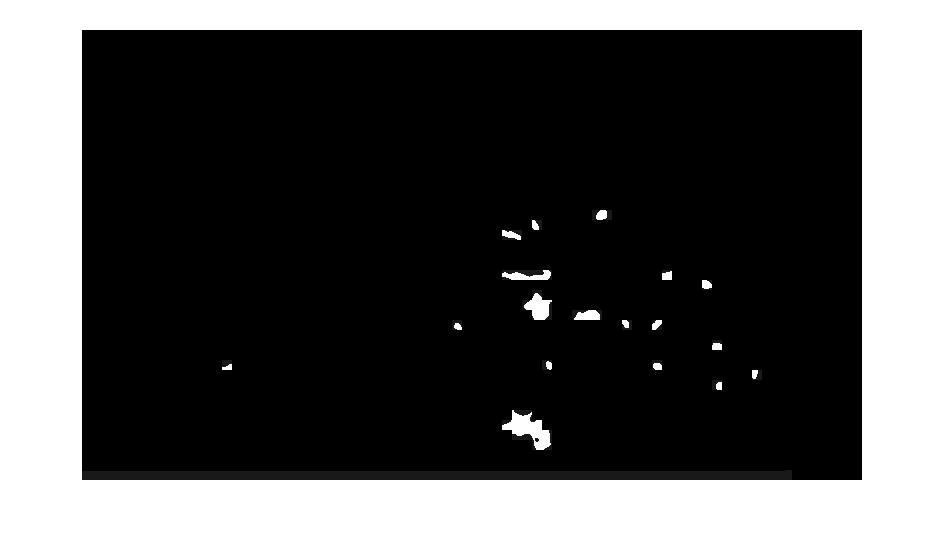
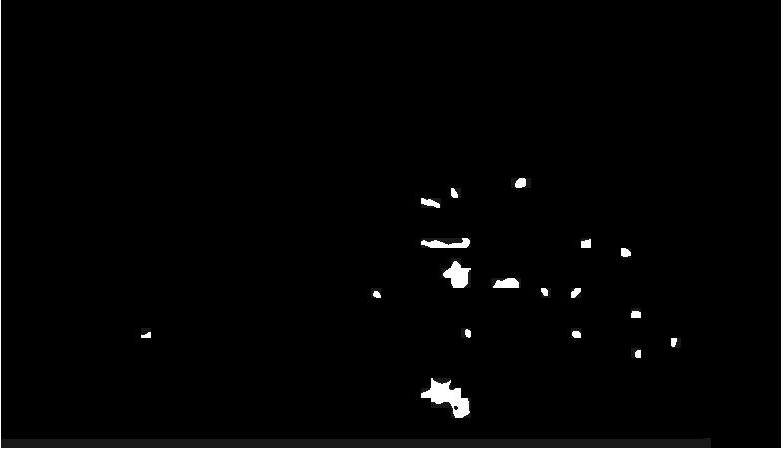
Agregué subsección de lógica difusa en Metodología y en Resultados; agregué algunas imágenes más.

diff --git a/Capitulos/resultados.tex b/Capitulos/resultados.tex
@@ -33,29 +33,35 @@ Partiendo de las características del terreno a relevar (su extensión) y de la 
 \begin{figure}[h!]
     \includegraphics[width=\textwidth]{Imagenes/grafico bloque 1-II.png}
      \hfill
-     \caption{Gráfico comparativo de tiempo total de relevamiento con distintas plataformas versus superficie relevada}
+     \caption{Gráfico comparativo de tiempo total de relevamiento, incluyendo fase de despegue, desplazamiento y retorno a base, con distintas plataformas versus superficie relevada}
     \label{grafico_comparativo-II}
 \end{figure}
 
-En la figura \ref{grafico_comparativo} se muestra un gráfico en el que se expone cómo varía el costo de relevamiento expresado en dólares estadounidenses en relación a la área relevada, expresada en hectáreas, según la plataforma usada, VANT, aeronaves tripuladas o satélites. Como se observa, en el caso de los VANT es claramente inferior el costo cuando se trata de superficies menores a mil hectáreas. A partir de ese valor el costo de relevamiento se asemeja al de la obtención de imágenes satelitales. Es marcada la incidencia que tiene en el caso de áreas relativamente pequeñas, de cien hectáreas o menos, lo que puede definirse como costo fijo tanto para imágenes satelitales cuya adquisición está supeditada a un área no menor a 25 km\textsuperscript{2} (2.500 ha). Con este gráfico resulta evidente la conveniencia del uso de VANT en términos económicos para relevar las pequeñas reservas públicas y privadas en la provincia de Misiones. De manera similar, en el gráfico \ref{grafico_comparativo-II} se muestra cómo varía el tiempo necesario para el relevamiento según la superficie y la plataforma usada. Según se aprecia, para áreas de superficie pequeña, de cien hectáreas o menos, el tiempo que lleva hacer el mapeo es de dos minutos o menos, con lo que el tiempo de relevamiento es insignificante en comparación al tiempo que podría definirse como logístico, desde la puesta en marcha, despegue y traslado y posterior retorno, que según muestra la tabla \ref{tab:avion}, se aproxima a la media hora. Ese tiempo es independiente de la superficie relevada, pero incide en el costo total, ya que es facturado en un servicio aéreo. 
+En la figura \ref{grafico_comparativo} se muestra un gráfico en el que se expone cómo varía el costo de relevamiento expresado en dólares estadounidenses en relación a la área relevada, expresada en hectáreas, según la plataforma usada, VANT, aeronaves tripuladas o satélites. Como se observa, en el caso de los VANT es claramente inferior el costo cuando se trata de superficies menores a mil hectáreas. A partir de ese valor el costo de relevamiento se asemeja al de la obtención de imágenes satelitales. Es marcada la incidencia que tiene en el caso de áreas relativamente pequeñas, de 100 hectáreas o menos, lo que puede definirse como costo fijo tanto para imágenes satelitales cuya adquisición está supeditada a un área no menor a 25 km\textsuperscript{2} (2.500 ha). De acuerdo con la figura \ref{grafico_comparativo} resulta evidente la conveniencia del uso de VANT en términos económicos para relevar las pequeñas reservas públicas y privadas en la provincia de Misiones. \\
+De manera similar, en la figura \ref{grafico_comparativo-II} se muestra cómo varía el tiempo necesario para el relevamiento según la superficie y la plataforma usada. Según se aprecia, para áreas de pequeña extensión, de cien hectáreas o menos, el tiempo que demanda hacer el relevamiento con aeronave tripulada es de dos minutos o menos, con lo que el tiempo de relevamiento es insignificante en comparación al tiempo que podría definirse como logístico, desde la puesta en marcha, despegue y traslado y posterior retorno, que según muestra la tabla \ref{tab:avion}, se aproxima a la media hora. Ese tiempo es independiente de la superficie relevada, pero incide en el costo total, ya que es facturado en un servicio aéreo. Por otro lado, con el relevamiento con VANT se observa que para extensiones menores a 800 ha, es conveniente en términos de tiempo demandado en el relevamiento, incluso considerando el tiempo de reabastecimiento de la batería.
 
-\section{ Propuesta de Herramientas de Bajo Costo (Económico y Computacional) para el relevamiento del bosque atlántico}
+\section{Resultados de los algoritmos de procesamiento de imágenes}
 %\subsection{RESULTADOS Relación de iluminación natural con histogramas de color}
 %Con el objeto de evaluar la correspondiente afectación en el histograma de las imágenes capturadas respecto a las condiciones de iluminación natural, se hicieron varias capturas en distintos horarios durante varios días desde una posición fija a un determinado objeto (un árbol de palta) y se midió la iluminancia usando un luxómetro.
 %\color{cyan} %color de texto con 70-80 % o más de avance
-\subsection{RESULTADOS HOMOMÓRFICO}
+\subsection{Análisis de regiones sombreadas mediante procesamiento homomórfico}
 \input{Capitulos/tablahomomorfico}
-Los resultados de las pruebas usando el procesamiento homomórfico detallado en \ref{} se exponen en la Tabla \ref{tab:homomorfico}. Allí se visualiza para un total de once diferentes imágenes analizadas la cantidad de sombras detectadas, y se comparan los resultados de conteo automático con distintos tamaños de ventana, con el método de búsqueda de forma manual. En las tres últimas filas de la tabla se muestran el error medio entre el conteo automático y el manual, la variancia y el desvío estándar. Nótese el cambio de signo para el error medio entre los tamaños de ventana de 25 y de 20 píxeles, indicando que la selección de un tamaño de ventana menor resultará en una mayor cantidad de sombras detectadas que la que se obtiene por conteo manual. En cambio un tamaño de ventana mayor podría obviar varias sombras que serían tenidas en cuenta para el conteo manual. De acuerdo con la resolución de las imágenes de prueba, el tamaño de ventana cuadrada de 20 píxeles por lado se correspondería con un área aproximada de 100 metros cuadrados, que bien podría corresponder a una copa de árbol de un diámetro aproximado de 10 m.
-A los efectos de demostrar el grado de certeza del algoritmo, se comparó con la detección manual, variando el tamaño de la ventana de enmascaramiento. Se comprobó que eligiendo un tamaño de ventana de enmascaramiento igual a 20 por 20 píxeles se obtenía un acercamiento al criterio de selección manual.
-En el proceso de binarización, se definió como umbral que correspondía a un valor de intensidad por encima del cual se trataba de sombras. En este caso el valor de intensidad fue de 0,75 en valores de intensidad de píxeles normalizados.
-Para la selección de sombras binarizadas se recorrió la matriz de la imagen con una ventana de inspección que abarcaba 25 píxeles por lado, de modo que se evalúa un conjunto de 625 píxeles. Se estableció un umbral de 0,45 para clasificar las sombras, de modo que los recintos de píxeles blancos que superaban ese umbral eran catalogados como sombras de árboles grandes.
-A los efectos de mostrar el funcionamiento del método de búsqueda y conteo de sombras, se exponen las figuras \ref{sombratorogris}, \ref{mascaraST} y \ref{seleccionadaST} en las que se visualizan la imagen satelital en escala de grises de una porción de la reserva privada Sombra de Toro, ubicada en el norte de la provincia de Misiones, la imagen binarizada luego del filtrado homomórfico y las sombras seleccionadas, respectivamente.
+Con el objetivo de lograr un algoritmo que analice las imágenes RGB y pueda detectar estructura en la selva, tales como ejemplares altos y depresiones en el dosel de selva, se propuso el análisis de las imágenes para detectar sombras que se proyectan en el dosel. En esta sección se presentan los resultados del algoritmo basado en el análisis homomórfico cuyo detalle se desarrolló en la sección \ref{homomorfico} aplicados a una variedad de imágenes de la selva seleccionados. Las imágenes pueden verse en el anexo \ref{anexo_homo}.\\ Los resultados, que se exponen en la tabla \ref{tab:resultados_homomorfico} se analizan como función del parámetro tamaño de ventana de exploración.
+Allí se visualiza para un total de once diferentes imágenes analizadas la cantidad de sombras detectadas, y se comparan los resultados de conteo automático con distintos tamaños de ventana, con el método de búsqueda de forma manual. \\
+A los efectos de demostrar el grado de certeza del algoritmo, se comparó con la detección manual, variando el tamaño de la ventana de enmascaramiento. Se comprobó que eligiendo un tamaño de ventana de enmascaramiento igual a 20 por 20 píxeles se obtenía un acercamiento al criterio de selección manual.\\
+Nótese el cambio de signo para el error medio entre los tamaños de ventana de 25 y de 20 píxeles, indicando que la selección de un tamaño de ventana menor resultará en una mayor cantidad de sombras detectadas que la que se obtiene por conteo manual. En cambio un tamaño de ventana mayor podría obviar varias sombras que serían tenidas en cuenta para el conteo manual. De acuerdo con la resolución de las imágenes de prueba, el tamaño de ventana cuadrada de 20 píxeles por lado se correspondería con un área aproximada de 100 metros cuadrados, que bien podría corresponder a una copa de árbol de un diámetro aproximado de 10 m.\\
+El siguiente parámetro que se analizó es el umbral para la binarización (ver figura \ref{flowchart_homomorfico}), definiendo un valor que correspondía a una intensidad de cada píxel por encima del cual se consideraba como sombra. En este caso el valor de intensidad fue de 0,75 en valores de intensidad de píxeles normalizados, de acuerdo con varias pruebas realizadas en las imágenes analizadas.
+Para la selección de sombras binarizadas se recorrió la matriz de la imagen con una ventana de inspección que abarcaba 25 píxeles por lado, de modo que se evalúa un conjunto de 625 píxeles. Luego de varias pruebas con diferentes imágenes, se estableció un umbral de 0,45 (45\%) para clasificar las sombras, de modo que los recintos de píxeles blancos que superaban ese umbral eran catalogados como sombras de árboles grandes.\\
+A los efectos de mostrar el funcionamiento del algoritmo de búsqueda y conteo de sombras, se expone la figura \ref{sombratorogris}, en la que se visualiza la imagen satelital en escala de grises de una porción de la reserva privada Sombra de Toro, la imagen binarizada luego del filtrado homomórfico en la figura \ref{mascaraST} y las sombras seleccionadas con el algoritmo en la figura \ref{seleccionadaST}.
 
 \input{Capitulos/img_resultados_homomorfico}
-
-De acuerdo con la resolución espacial de las imágenes analizadas, el tamaño de ventana de 20 píxeles se corresponde con un área de aproximadamente cien metros cuadrados.
+\subsubsection{Resultados de procesamiento homomórfico y selección automática mediante sistema de inferencia de lógica difusa}
+En las figuras \ref{} se presentan los resultados de la selección automática de sombras obtenida por el algoritmo propuesto en \ref{Metodología}.
+\input{Capitulos/img_resultados_homo_VANT}
+\subsubsection{Discusión de resultados del procesamiento homomórfico}
+Según lo observado en los resultados, especialmente en las figuras \ref{Cañadon_homo} y \ref{}, es evidente que el algoritmo requiere de optimización y de concederle mayor robustez ante variaciones en, por ejemplo, la resolución espacial. Los parámetros del algoritmo han sido ajustados para las características de las imágenes satelitales utilizadas. En cuanto se aplicaba el algoritmo con imágenes obtenidas por VANT, los resultados obtenidos diferían de manera considerable, por lo que el algoritmo requería de un ajuste mayor de los parámetros para esas condiciones. De este modo, la automatización de la selección de sombras se ve limitada por las condiciones de las imágenes a ser analizadas.
 %\color{cyan} %color de texto con 70-80 % o más de avance
-\subsection{RESULTADOS Replicación del paper de Wagner}
+\subsection{Análisis para conteo de copas de árboles según procesamiento morfológico (Wagner)}
 En esta subsección se muestran resultados de un análisis de desempeño de un algoritmo de procesamiento morfológico de imágenes satelitales de selva según la secuencia presentada en la subsección \ref{Morfo}, aplicado para establecer la delineación y conteo de copas individuales en el dosel selvático. Para un conjunto de parámetros del algoritmo se establecieron diferentes valores de los mismos para observar y analizar la influencia en los resultados obtenidos.
 Con base en el trabajo realizado por Wagner et al. \cite{hubert_wagner_individual_2018}, se llevó a cabo un análisis de desempeño del algoritmo de procesamiento morfológico de imágenes mediante la técnica de búsqueda por grilla, evaluando diferentes valores de parámetros como ser tamaño de ventana, percentil para selección de objetos oscuros, tamaño de objetos para discriminar huecos en copa. En la figura \ref{Rollingball} se muestran los resultados del análisis para diferentes tamaños de ventana en  píxeles, que corresponde a la etapa 4. En la figura \ref{segundaoscuros} se visualizan los resultados para distintos valores de percentil en la etapa de segunda selección de objetos oscuros, correspondiente a la etapa 6. En la figura \ref{pequenoshuecos} se observan los resultados del procesamiento para hallar pequeños huecos en grandes copas, usando distintos valores de percentil, correspondiente a la etapa 7. 
 

diff --git a/Capitulos/metodologia.tex b/Capitulos/metodologia.tex
@@ -167,7 +167,8 @@ La ecuación que representa al filtro es \ref{filtro homomorfico}
 
 donde $D_0$ es la frecuencia de corte, $c$ controla la forma y pendiente del filtro en la región de transición entre $\gamma_L$ y $\gamma_H$. $D(u,v)$ es la distancia al origen del plano de frecuencias.
 
-Las imágenes a ser analizadas son imágenes satelitales obtenidas desde el sitio web Bing \color{red}\textbf{(poner en referencia de la dirección web del maps)}\color{black}. Se seleccionaron imágenes de diferentes sitios de la Provincia de Misiones, correspondientes a selvas en parques y reservas, en los que se supone mayor presencia de especies de árboles de interés para el presente trabajo. 
+Las imágenes a ser analizadas son imágenes satelitales obtenidas desde el sitio web Bing \color{red}\textbf{(poner en referencia de la dirección web del maps)}\color{black}. \\ % Paranay -26.701277, -54.759434
+Se seleccionaron imágenes de diferentes sitios de la Provincia de Misiones, correspondientes a selvas en parques y reservas, en los que se supone mayor presencia de especies de árboles de interés para el presente trabajo. 
 En un primer paso se realizó la conversión de la imagen de color rojo, verde y azul (RGB) a la representación matiz, saturación e intensidad (HSI), trabajando sobre la componente de intensidad. La componente de intensidad se obtiene sumando los tres canales rojo, verde y azul y dividiendo por tres (ecuación \ref{RGB-HSI}). 
 %%%%%%%%%%%%%%%%%%%%%%%%%%%%%%%%%%%%%% ECUACIÓN %%%%%%%%%%%%%%%%%%%%%%%%%%%%%%%%%%%%%%%%%%%%%%%%%%%%%%%%%
 \\
@@ -178,10 +179,48 @@ En un primer paso se realizó la conversión de la imagen de color rojo, verde y
 donde $I$ es el valor de intensidad, $R$, $G$ y $B$ son los valores respectivos de las bandas roja, verde y azul.
 %%%%%%%%%%%%%%%%%%%%%%%%%%%%%%%%%%%%%%%%%%%%%%%%%%%%%%%%%%%%%%%%%%%%%%%%%%%%%%%%%%%%%%%%%%%%%%%%%%%%%%%%%  
 En un paso siguiente se aplicó el logaritmo a la componente de intensidad de la imagen y seguidamente se obtuvo la transformada de Fourier de la misma, para poder procesar con el filtro de sombras, expresado en la ecuación \ref{filtro homomorfico}. Se multiplicó la matriz de la imagen por la matriz que representa al filtro y luego, al resultado se le aplicó la transformada inversa de Fourier, la función inversa de logaritmo y la remoción de fase, tomando el módulo del número complejo, todo en orden sucesivo. 
-%Posteriormente se binarizó la imagen filtrada fijando el valor de umbral en 0,75 en una escala en la que el valor 1 es blanco y 0 es negro, de modo que a los píxeles con valor de intensidad menor al umbral se les asignó el valor cero, y a los que superaban el valor umbral se les asignaba el valor 1. La imagen de salida del filtro de sombras constituye así una máscara que presenta a las sombras resaltadas con píxeles de intensidad blancos. 
-Luego se efectuó la selección de las sombras binarizadas mediante técnicas de lógica difusa, en dos etapas. En la primera implementando un inferenciador Sugeno, mediante el cual se discriminaban los píxeles de determinada intensidad , con lo que se descartaron las sombras que no revisten interés para el posterior conteo, es decir aquellas muy pequeñas o muy grandes, estableciendo una ventana de enmascaramiento, que a los efectos prácticos es cuadrada y el criterio de clasificación es de 45\% de píxeles blancos. Una vez completas la binarización y la selección de sombras de interés, se realizó el conteo de las mismas. El diagrama de flujo de la figura \ref{flowchart_homomorfico}  describe las etapas del proceso completo. 
+Posteriormente se binarizó la imagen filtrada fijando un valor de umbral dentro de una escala en la que el valor 1 es blanco y 0 es negro, de modo que a los píxeles con valor de intensidad menor al umbral se les asignó el valor cero, y a los que superaban el valor umbral se les asignaba el valor 1. La imagen de salida del filtro de sombras constituye así una máscara que presenta a las sombras resaltadas con píxeles de intensidad blancos. En la siguiente etapa del algoritmo se implementa una selección de las regiones que corresponden a sombras en la imagen, donde por medio de una ventana cuadrada que recorre todo el ancho y largo de la imagen se evalúan las distintas sombras por su tamaño, descartándose las que son muy pequeñas de acuerdo a un parámetro establecido. Finalmente se obtiene una máscara binaria que contiene las demarcaciones de sombras en la imagen.
 
+\subsubsection{Selección automática de regiones sombreadas usando método de inferencia difusa a partir del filtrado homomórfico}
+Partiendo de la imagen procesada con filtro homomórfico, se efectuó la selección de las sombras binarizadas mediante técnicas de lógica difusa, en dos etapas. En la primera implementando un sistema de inferencia difusa por el método Sugeno, mediante el cual se discriminaban los píxeles de determinada intensidad, que constituía la variable de entrada, estableciendo una salida según dos funciones de membresía trapezoidales, una correspondiente a píxeles "claros" y otra a "oscuros" (ver figura \ref{sug1}). La segunda etapa de inferencia difusa, también con el método Sugeno, implicaba dos variables de entrada, área e intensidad promedio. A cada variable se le asignaron funciones de membresía, tres en el caso de área, de forma trapezoidal, y dos en el caso de la variable intensidad promedio, de forma triangular (ver figura \ref{sug2}). La salida del sistema es una máscara binaria con las regiones de sombra designadas con píxeles blancos. 
 
+%%%%%%%%%%%%%%%%%%%%%%%%%%%%%%%%%%%%%%%%%%%%%%%%%%%%%%%%%%%%%%%%%%%%%%%%%%%%%%%%%%%%%%%%%%%%%%%%%%%%%%%%%  
+\begin{figure}[h!]
+    \centering
+    \includegraphics[width=0.5\textwidth]{Imagenes/Homomorfico/sugeno1.png}
+     \hfill
+     \caption{Esquema del sistema de inferencia difusa de la primera etapa}
+    \label{sug1}
+\end{figure}
+%%%%%%%%%%%%%%%%%%%%%%%%%%%%%%%%%%%%%%%%%%%%%%%%%%%%%%%%%%%%%%%%%%%%%%%%%%%%%%%%%%%%%%%%%%%%%%%%%%%%%%%%%  
+\begin{figure}[h!]
+    \centering
+    \includegraphics[width=0.5\textwidth]{Imagenes/Homomorfico/sugeno2.png}
+     \hfill
+     \caption{Esquema del sistema de inferencia difusa de la segunda etapa}
+    \label{sug2}
+\end{figure}
+
+%Faltaría añadir una explicación de cómo se obtiene el error medio
+\subsubsection{Estadísticos} 
+El error medio se obtiene restando al conteo automático el conteo manual, dividiendo por la cantidad de imágenes analizadas, que en este caso fueron once.
+La varianza se calcula mediante la fórmula expresada en la ecuación \ref{varianza}.
+%%%%%%%%%%%%%%%%%%%%%%%%%%%%%%%%%%%%%% ECUACIÓN %%%%%%%%%%%%%%%%%%%%%%%%%%%%%%%%%%%%%%%%%%%%%%%%%%%%%%%%%
+\\
+\begin{equation}
+	\sigma_{e} ^2=\frac{\sum (x_{i}-\overline{x})^2}{n},\label{varianza}
+\end{equation}
+\\
+siendo $x_i$ el valor de cada conteo automático de cada una de las $n$ imágenes analizadas, y $\overline{x}$ es el valor de conteo manual.
+%%%%%%%%%%%%%%%%%%%%%%%%%%%%%%%%%%%%%%%%%%%%%%%%%%%%%%%%%%%%%%%%%%%%%%%%%%%%%%%%%%%%%%%%%%%%%%%%%%%%%%%%%  
+El desvío estándar se obtiene de la raíz cuadrada de la varianza (ecuación \ref{desvio}.
+%%%%%%%%%%%%%%%%%%%%%%%%%%%%%%%%%%%%%% ECUACIÓN %%%%%%%%%%%%%%%%%%%%%%%%%%%%%%%%%%%%%%%%%%%%%%%%%%%%%%%%%
+\\
+\begin{equation}
+	\sigma_{e}=\sqrt{\frac{\sum (x_{i}-\overline{x})^2}{n}},\label{desvio}
+\end{equation}
+\\
+%%%%%%%%%%%%%%%%%%%%%%%%%%%%%%%%%%%%%%%%%%%%%%%%%%%%%%%%%%%%%%%%%%%%%%%%%%%%%%%%%%%%%%%%%%%%%%%%%%%%%%%%% 
 %\color{cyan} %color de texto con 70-80 % o más de avance
 \subsection{Procesamiento morfológico (Pasantía)} \label{Morfo}
 %revisar definiciones que pueden ir en el marco teórico y aquellas que se definen aquí
@@ -221,7 +260,7 @@ En esta etapa se calcula la distancia entre valores cero y distinto de cero, es 
 
 
 
-\color{cyan} %color de texto con 70-80 % o más de avance
+%\color{cyan} %color de texto con 70-80 % o más de avance
 \subsection{Invariante de color (paper RSASE)} \label{Metodología}
 \subsubsection{Metodología propuesta IIC}
 En esta sección se describen los pasos del método de procesamiento necesarios para obtener la máscara automática de sombras de la imagen aérea. La figura \ref{diagrama_procesamiento} representa la secuencia de procesamiento.

diff --git a/Capitulos/tablahomomorfico.tex b/Capitulos/tablahomomorfico.tex
@@ -3,32 +3,36 @@
 \begin{table}[]
     \centering
     \begin{threeparttable}[b]
-        \label{tab:homomorfico}
-        \caption{Evaluación de la superposición de ambas máscaras, manual y automática.}
-        % Please add the following required packages to your document preamble:
         
+        \caption{Número de regiones sombreadas obtenidas por conteo manual y por el algoritmo automático de procesamiento homomórfico, como función del tamaño de ventana de exploración}
+        % Please add the following required packages to your document preamble:
+        \label{tab:resultados_homomorfico}
         \begin{tabular}{ccccccc}
         \hline
         \hline
-                  & CM \tnote{*}  & \multicolumn{5}{l}{Tamaño de ventana}   \\
-            Imagen&   & 10     & 15     & 20    & 25    & 30    \\ \hline
-            Par1d & 5  & 7      & 4      & 1     & 0     & 0     \\
-            Par2d & 2  & 7      & 4      & 1     & 0     & 0     \\
-            PNI1  & 14 & 84     & 49     & 31    & 16    & 10    \\
-            PNI2  & 14 & 48     & 35     & 20    & 14    & 7     \\
-            PNI3  & 32 & 110    & 73     & 48    & 29    & 9     \\
-            PNI3d & 22 & 56     & 42     & 21    & 7     & 0     \\
-            PS1   & 6  & 35     & 16     & 4     & 1     & 1     \\
-            YB1   & 10 & 10     & 5      & 3     & 1     & 1     \\
-            YB2   & 9  & 14     & 8      & 4     & 0     & 0     \\
-            ST1   & 18 & 40     & 25     & 16    & 7     & 6     \\
-            ST2   & 9  & 42     & 30     & 18    & 9     & 7     \\ \hline
-            $e_{m}$    & -  & -28,36 & -13,64 & -2,36 & 5,18  & 9,09  \\
-            $\sigma^2_{e}$   & -  & 628,6  & 211,14 & 63,69 & 25,42 & 48,45 \\
-            $\sigma_{e}$    & -  & 25,07  & 14,53  & 7,98  & 5,04  & 6,96  \\ \hline \hline
+                  & \textbf{Conteo}  & \multicolumn{5}{c}{\textbf{Tamaño de ventana [píxeles]}}   \\
+            \textbf{Imagen}& \textbf{manual}  & \textbf{10 x 10}     & \textbf{15 x 15}     & \textbf{20 x 20 }   & \textbf{25 x 25}    & \textbf{30 x 30 }   \\ \hline
+            \textbf{Par1d}  & 5  & 7      & 4      & 1     & 0     & 0     \\
+            \textbf{Par2d}  & 2  & 7      & 4      & 1     & 0     & 0     \\
+            \textbf{PNI1}   & 14 & 84     & 49     & 31    & 16    & 10    \\
+            \textbf{PNI2}   & 14 & 48     & 35     & 20    & 14    & 7     \\
+            \textbf{PNI3}   & 32 & 110    & 73     & 48    & 29    & 9     \\
+            \textbf{PNI3d}  & 22 & 56     & 42     & 21    & 7     & 0     \\
+            \textbf{PS1}    & 6  & 35     & 16     & 4     & 1     & 1     \\
+            \textbf{YB1}    & 10 & 10     & 5      & 3     & 1     & 1     \\
+            \textbf{YB2}    & 9  & 14     & 8      & 4     & 0     & 0     \\
+            \textbf{ST1}    & 18 & 40     & 25     & 16    & 7     & 6     \\
+            \textbf{ST2}    & 9  & 42     & 30     & 18    & 9     & 7     \\ \hline
+            $e_{m}$\tnote{*}    & -  & -28,36 & -13,64 & -2,36 & 5,18  & 9,09  \\
+            $\sigma^2_{e}$ \tnote{**}   & -  & 628,6  & 211,14 & 63,69 & 25,42 & 48,45 \\
+           $\sigma_{e}$ \tnote{***}   & -  & 25,07  & 14,53  & 7,98  & 5,04  & 6,96  \\ \hline \hline
         \end{tabular}
         \begin{tablenotes}
-                \item [*]Conteo manual.
+        \tiny{
+                \item [*]Error medio.
+                \item [**]Variancia.
+                \item [***] Desvío estándar.
+                }
         \end{tablenotes}
   \end{threeparttable}
 \end{table}

diff --git a/Capitulos/img_resultados_homomorfico.tex b/Capitulos/img_resultados_homomorfico.tex
@@ -1,22 +1,43 @@
 
 
 \begin{figure}[h!]
-    \includegraphics[width=\textwidth]{Imagenes/Homomorfico/ST2.jpg}
+    \includegraphics[width=\textwidth]{Imagenes/Homomorfico/ST2.png}
      \hfill
-     \caption{Imagen aérea (satelital) de reserva privada Sombra de Toro, en escala de grises}
+     \caption{Imagen aérea (satelital) de reserva privada Sombra de Toro (identificada como ST2 en la tabla), en escala de grises. Resolución de imagen de 1464 x 900 píxeles, resolución espacial de 0,5 m por pixel.}
     \label{sombratorogris}
 \end{figure}
 
 \begin{figure}[h!]
-    \includegraphics[width=\textwidth]{Imagenes/Homomorfico/ST2_bin.jpg}
+    \includegraphics[width=\textwidth]{Imagenes/Homomorfico/ST2_bin.png}
      \hfill
-     \caption{Máscara binaria}
+     \caption{Máscara binaria obtenida a partir de la imagen de la figura \ref{sombratorogris} con umbral de 0,45.}
     \label{mascaraST}
 \end{figure}
 
 \begin{figure}[h!]
-    \includegraphics[width=\textwidth]{Imagenes/Homomorfico/ST2_masked.jpg}
+    \includegraphics[width=\textwidth]{Imagenes/Homomorfico/ST2_masked.png}
      \hfill
-     \caption{Sombras seleccionadas}
+     \caption{Sombras seleccionadas por el algoritmo a partir de la imagen de la figura \ref{mascaraST}.}
+    \label{seleccionadaST}
+\end{figure}
+%%%%%%%%%%%%%%%%%%%%%%%%%%%%%%%%%%%%%%%%%%%%%%%%%%%%%%%%%%%%%%%%%%%%%%%%%%%%%%%%
+\begin{figure}[h!]
+    \includegraphics[width=\textwidth]{Imagenes/Homomorfico/PS1_original.jpg}
+     \hfill
+     \caption{Imagen aérea (satelital) de reserva Parque de la Sierra (identificada como PS1 en la tabla), en escala de grises. Resolución de imagen de 1464 x 900 píxeles, resolución espacial de 0,5 m por pixel.}
+    \label{PS1}
+\end{figure}
+
+\begin{figure}[h!]
+    \includegraphics[width=\textwidth]{Imagenes/Homomorfico/PS1_bin.png}
+     \hfill
+     \caption{Máscara binaria obtenida a partir de la imagen de la figura \ref{PS1} con umbral de 0,45.}
+    \label{mascaraPS1}
+\end{figure}
+
+\begin{figure}[h!]
+    \includegraphics[width=\textwidth]{Imagenes/Homomorfico/PS1_masked.png}
+     \hfill
+     \caption{Sombras seleccionadas por el algoritmo a partir de la imagen de la figura \ref{mascaraPS1}.}
     \label{seleccionadaST}
 \end{figure}

diff --git a/Capitulos/marco.tex b/Capitulos/marco.tex
@@ -1,4 +1,4 @@
-\color{cyan} %color de texto con 70-80 % o más de avance
+%                                                                                          \color{cyan} %color de texto con 70-80 % o más de avance
 \section{Sensado remoto, plataformas (Bloque 1)}
 \subsection{Fotointerpretación}
 En el marco de la teledetección, la fotointerpretación consiste en el análisis de imágenes, generalmente aéreas sobre un terreno, para extraer información, identificar objetos, clasificar, etc. Se parte de una captura de fotogramas, mediante alguna plataforma que puede ser una aeronave tripulada o no, o un satélite. Durante un tiempo la fotointerptretación era llevada a cabo de manera manual, valiéndose el fotointerpretador de una imagen impresa y herramientas como estereoscopio, reglas, marcadores. Con la mayor accesibilidad y disponibilidad de herramientas digitales, se vuelve más atractivo el uso de métodos que automaticen la tarea.
@@ -23,7 +23,8 @@ Hay muchas y muy diversas fuentes de imágenes satelitales, tanto en forma gratu
 \begin{table}[H]
     \centering
     \caption{Características de sensores satelitales. Fuente \cite{noauthor_3_nodate}}
-    \begin{tabular}{|c|p{20mm}|p{15mm}|p{15mm}|p{25mm}|p{20mm}|p{20mm}|p{20mm}|}
+    \begin{tabular}{c p{20mm} p{15mm} p{15mm} p{25mm} p{20mm}p{20mm} p{20mm}|}
+        \hline
         \hline
         \textbf{Sensor} & \textbf{Tamaño de imagen} & \multicolumn{4}{c}{\textbf{Resolución}} & \textbf{Aplicación principal} \\
         %\hline
@@ -48,6 +49,7 @@ Hay muchas y muy diversas fuentes de imágenes satelitales, tanto en forma gratu
          Worldview & 13 x 13 km &   & 1 d & 2048 & 29 bandas & Observación terrestre\\
         \hline
          Sentinel & 13 x 13 km &  10 m & 1 d & S/D & 13 bandas & Observación terrestre\\
+        \hline
         \hline
     \end{tabular}
 

diff --git a/main.tex b/main.tex
@@ -19,7 +19,7 @@
 %%Estilo de numeración de páginas
 \usepackage{lastpage}
 \usepackage{fancyhdr}
-
+\usepackage{emptypage}
 \usepackage{hyperref}
 
 \usepackage{lscape} %página apaisada
@@ -196,6 +196,8 @@ Universidade de Caxias Do Sul\\
   %\today
 \end{titlepage}
 %---------------------------------------------------------------------------------------------------------------------
+%\frontmatter
+\pagenumbering{roman}
 \pagestyle{fancy}
 \fancyhf{} % clear existing header/footer entries
 % Place Page X of Y on the right-hand
@@ -214,8 +216,12 @@ Gracias... totales
 \input{Capitulos/resumen.tex}
 \chapter*{Abstract} %Abstract
 \input{Capitulos/abstract.tex}
+%\mainmatter
+
 %---------------------------------------------------------------------------------------------------------------------
+
 \chapter{Introducción}  
+\pagenumbering{arabic}
     \input{Capitulos/intro.tex}
 \chapter{Marco Teórico}
     \input{Capitulos/marco.tex}
@@ -227,6 +233,8 @@ Gracias... totales
     \input{Capitulos/conclusiones.tex}
 \appendix
 \chapter{Algoritmo R}
+\chapter{Imágenes procesadas por filtro homomórfico} \label{anexo_homo}
+ \input{Capitulos/img_hom}
    % \input{steps(10).tex}
 \chapter{Algoritmo Matlab} 
 \chapter{Machine learning} 

diff --git a/Capitulos/img_resultados_homo_VANT.tex b/Capitulos/img_resultados_homo_VANT.tex
@@ -1,0 +1,20 @@
+\begin{figure}[h!]
+    \includegraphics[width=\textwidth]{Imagenes/Homomorfico/DJI_0240.JPG}
+     \hfill
+     \caption{Imagen aérea (VANT) de reserva provincial Cañadón de Profundidad. Resolución de imagen de N x M píxeles, resolución espacial de X m por píxel.}
+    \label{Cañadon_homo}
+\end{figure}
+
+\begin{figure}[h!]
+    \includegraphics[width=\textwidth]{Imagenes/Homomorfico/DJI_240_bin.png}
+     \hfill
+     \caption{Máscara binaria obtenida a partir de la imagen de la figura \ref{Cañadon_homo} con umbral de 0,45.}
+    \label{mascaraCañadon}
+\end{figure}
+
+\begin{figure}[h!]
+    \includegraphics[width=\textwidth]{Imagenes/Homomorfico/DJI_240_sel.png}
+     \hfill
+     \caption{Sombras seleccionadas por el algoritmo a partir de la imagen de la figura \ref{mascaraCañadon}.}
+    \label{seleccionadaST}
+\end{figure}

diff --git a/Capitulos/img_hom.tex b/Capitulos/img_hom.tex
@@ -1,0 +1,20 @@
+\begin{figure}[h!]
+    \includegraphics[width=\textwidth]{Imagenes/Homomorfico/PNI1gris.jpg}
+     \hfill
+     \caption{Imagen aérea (satelital) Parque Nacional Iguazú, en escala de grises}
+    %\label{sombratorogris}
+\end{figure}
+
+\begin{figure}[h!]
+    \includegraphics[width=\textwidth]{Imagenes/Homomorfico/ST2.png}
+     \hfill
+     \caption{Imagen aérea (satelital) reserva Sombra de Toro}
+    %\label{mascaraST}
+\end{figure}
+
+\begin{figure}[h!]
+    \includegraphics[width=\textwidth]{Imagenes/Homomorfico/ST2_masked.png}
+     \hfill
+     \caption{Sombras seleccionadas}
+    %\label{seleccionadaST}
+\end{figure}
